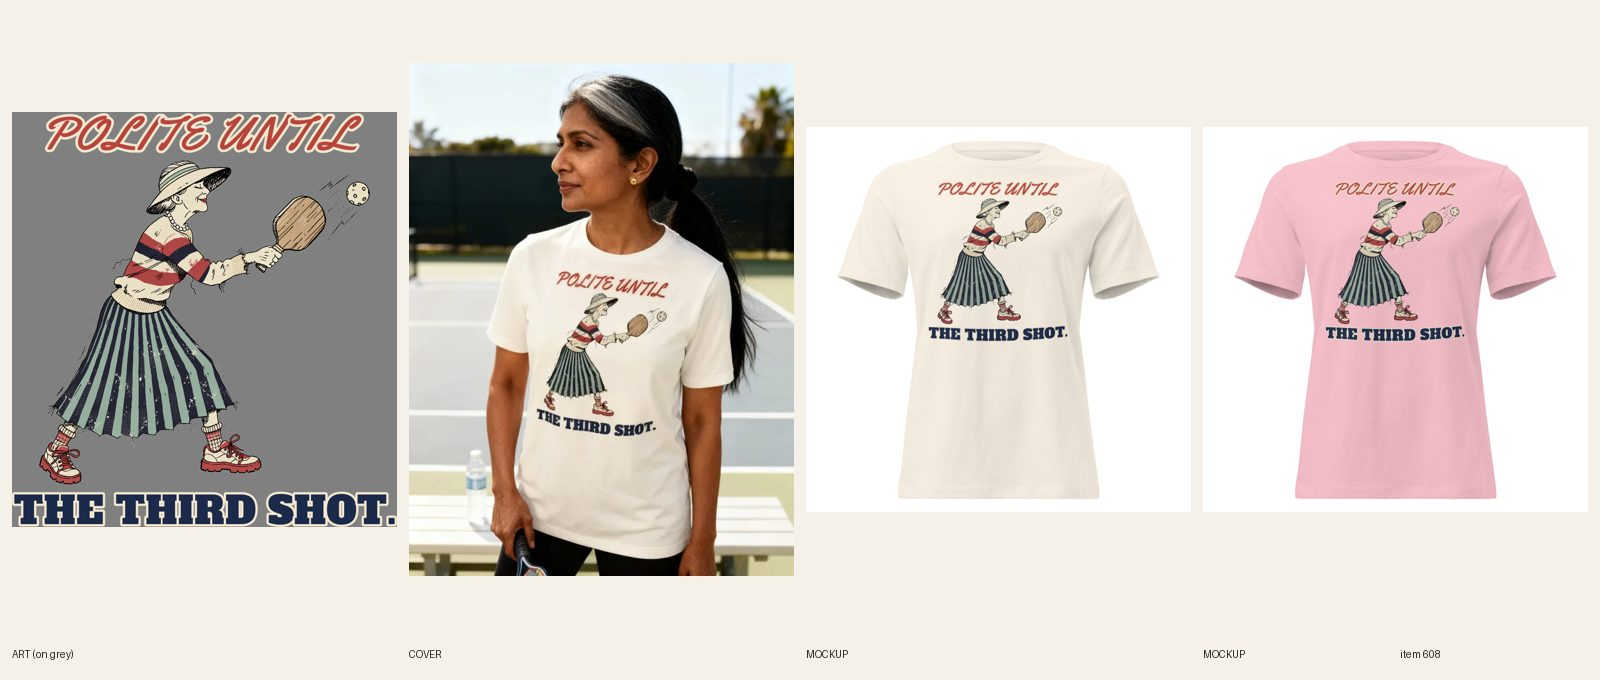
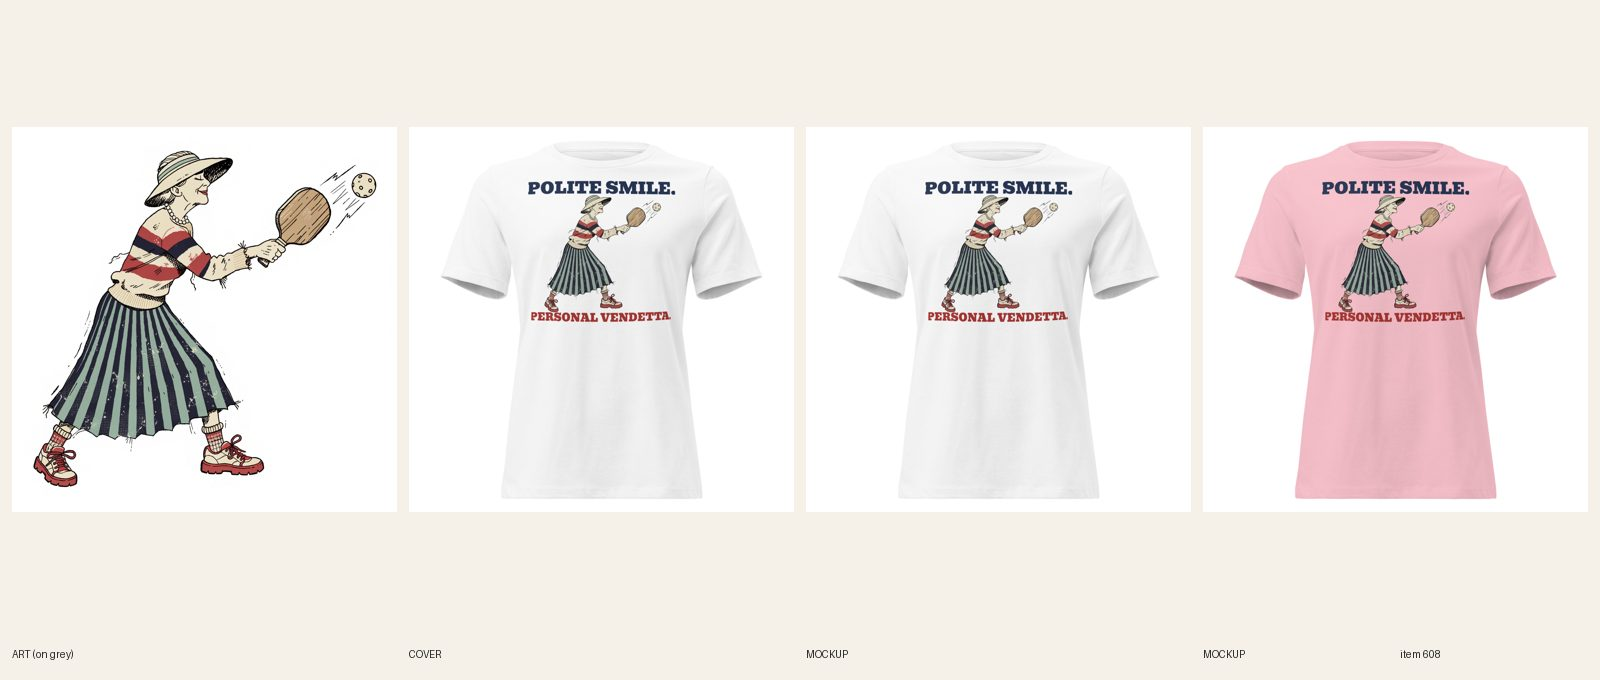
[E] review 608 redid #608 Women's Pickleball tee (line + type: POLITE SMILE. / PERSONAL VENDETTA., same serene-lady art, Bevan, dark-ink file on 5 light colors, 30/30 synced). REVIEW. fal $0.

Changed region(s): [[0.0, 0.0926, 0.5, 0.8647], [0.5625, 0.2471, 0.6875, 0.525], [0.8125, 0.2471, 0.9375, 0.525]]

diff --git a/docs/pipeline/608-pickleball-tee-polite-until-the-third-shot.md b/docs/pipeline/608-pickleball-tee-polite-until-the-third-shot.md
@@ -1,4 +1,4 @@
-status: BUILDING [E] 2026-10-20 07:43
+status: REVIEW
 lane: E
 type: new
 id: 608
@@ -31,3 +31,4 @@ kd: 39
 - 2026-10-18 14:35 UTC builder [E]: sync 30/30 confirmed. REVIEW.
 - 2026-10-18 15:40 UTC director: LIVE. Serene 1960s lady and paddle read, both lines read on White/Pink; cover clean (P and T clear). ACTIVE + Online Store/Headless/Google & YouTube; audit --handle PASS 0 warn.
 - 2026-10-18 17:22 UTC director: QUALITY RESET grade C (new line + type), REDO. The product stays ACTIVE (same handle, URL, title keyword). 1. Line (R3.12, quality-reset 'Lines'): "Polite Until / The Third Shot.": Insider pickleball reference (third shot drop); thin script headline. Write 5 candidates, keep the one a stranger laughs at in 3 seconds without backstory; kill lines that only describe the picture; if none of the 5 is funny, PARK it. 2. Quality reset type bar (docs/backlog/quality-reset.md, 'The new bar'): headline at least 90% of the art width, heavy, colors pulled from the art; second line at least 45% of the headline's height, never a thin script on a dark or mid garment; use the lettering as a shape (arch, stacked lockup, words breaking into the art), not a plain bar above and a script line below; no font used on more than 1 in 6 of the last 30 designs. 3. Keep the art if it carries the new line, else one new illustration (R4/R5). New print means a new cover per R6.10, copy line one rewritten for the new joke (R8.3), and a fresh review sheet (R7.7). While quality-reset.md says PAUSED, only lane A builds, and only the samples step 2 names.
+- 2026-10-20 08:00 UTC builder [E]: REDO 608 (C grade, line + type) done in place (stays ACTIVE, handle unchanged; title now Women's Pickleball – Polite Smile, Personal Vendetta Tee). 5 candidates: 'Polite Until The Third Shot' (old, insider); 'POLITE SMILE. / PERSONAL VENDETTA.'; 'DINK POLITELY. SMASH PERSONALLY.'; 'KITCHEN RULES. NO MERCY.'; 'NICE LADY. NASTY SERVE.'. Kept POLITE SMILE. / PERSONAL VENDETTA. (the sweet lady mid-smash is the punchline; no pickleball jargon needed). Same art (no fal, $0). Bevan, both lines at full print width (navy and brick red, solid dark fill with no keyline: light file logged for White, Natural, Heather Stone, Athletic Heather, Pink, all light blanks). FW 1650 TOP 75 (9.5 in). Verified 30/30 with one new file per color (no old ids), back logo kept. 5 fronts + back alt replaced in place, title/SEO/copy/FAQs rewritten. Phone-size read OK on all five. Cover: the AI cover shows the old words; handle added to retired-covers.json. audit PASS 0 warn, build OK. Sheet docs/review/608.jpg.

diff --git a/docs/intake-log.md b/docs/intake-log.md
@@ -2,6 +2,8 @@
 RUNNING director since 2026-10-20 07:17 UTC
 2026-10-20 07:43 UTC — [A] Builder run: redid #389 Women's Christmas Seasonally Overbooked tee (line+type: SORRY, I'M BOOKED / UNTIL JANUARY., same calendar art, Bowlby One full width, dark file 1090231492 / light file 1090231470, 42/42 relinked, 7 fronts replaced in place, copy updated, plain product shot). REVIEW. fal $0.
 2026-10-20 07:44 UTC — [B] Builder run: REDO round 3 of #455 Unisex Hanukkah Lost My Gelt crewneck (dreidel face marks painted out, Navy file 1090236634 + Sport Grey file 1090236680, FW 1650 TOP 0, 12/12 relinked, 2 fronts replaced in place) and #469 Women's Christmas embroidered crewneck (new line BOOKED / THROUGH JANUARY., headline 2197 / punch 2197 px, Sand file 1090237592 + Navy file 1090237605, 12/12 synced, title/SEO/copy/alts updated). Both REVIEW. #498 left for director (R3.14 note). fal $0.
+RUNNING lane B since 2026-10-20 07:29 UTC
+2026-10-20 08:00 UTC — [E] Builder run: redid #608 Women's Pickleball tee (line + type: POLITE SMILE. / PERSONAL VENDETTA., same serene-lady art, Bevan, dark-ink file on 5 light colors, 30/30 synced). REVIEW. fal $0.
 RUNNING lane C since 2026-10-20 07:00 UTC
 2026-10-20 07:57 UTC — [C] Builder run: redid #509 Women's National Park zip hoodie (new line + type: I'M NOT SINGLE. / I HAVE A CANYON., headline 3034 px / punch 3096 px, Big Shoulders + Bowlby, same canyon art, Ash file 1090241503 + Navy file 1090241557, BW 1650 BT 225, 12/12 relinked, back mockups replaced, title + copy + SEO updated). REVIEW. fal $0.
 2026-10-20 07:47 UTC — [C] Builder run: redid #442 Men's Chess zip hoodie (new line + type: SORRY ABOUT / YOUR PAWN., headline 3313 px / punch 3354 px, Alfa Slab, same knight art, Ash file 1090239213 + Navy file 1090239262, BW 1650 BT 225, 12/12 relinked, back mockups replaced, title + copy + SEO updated). REVIEW. fal $0.
